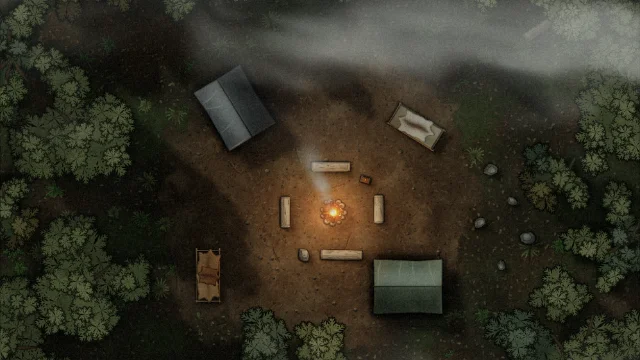
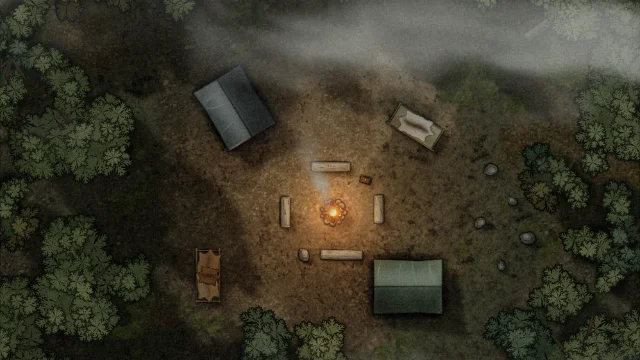
first terrain batch is painted from cc0 textures
ground, dirt, grass and the new moss read from tiled photos pulled to
the palette, with masked layers and flat micro-relief

diff --git a/src/procedural/materiais.ts b/src/procedural/materiais.ts
@@ -1,7 +1,8 @@
 import { contextoDe, criarTela, type Contexto } from './canvas.ts';
 import { campoDeRuido, fbm, hash2D, ladrilhoDeRuido, mulberry32, valueNoise2D } from './ruido.ts';
 import { celulasDeVoronoi, type Consulta } from './voronoi.ts';
-import type { ReceitaDeTextura } from './textura-de-terreno.ts';
+import { amostrarSemRepeticao, mapaDeGradiente, pesoDaCamada, reduzirTextura, tomDaTextura, type CamadaDeTextura, type Pixels, type ReceitaDeTextura, type Tom } from './textura-de-terreno.ts';
+import { texturaPronta } from './texturas-carregadas.ts';
 import { ehPadraoDeCobertura, texturaDeCobertura, type PadraoDeCobertura } from './coberturas.ts';
 
 export type Padrao = 'tabuas' | 'xadrez' | 'damasco' | 'listras' | 'veio' | 'trama' | 'couro' | 'metal' | 'vidro' | 'pregas' | 'pintura' | 'persa' | 'laje' | 'liso' | 'grama' | 'terra' | 'areia' | 'pedra' | 'neve' | 'lama' | 'espinha' | 'marmore' | 'losango' | 'hexagono' | 'floral' | 'lambri' | 'gelo' | 'dunas' | 'rachado' | 'cascalho' | 'paralelepipedo' | 'lajegrama' | 'sulcos' | 'molhada' | 'batido' | 'folhico'
@@ -129,11 +130,11 @@ export const MATERIAIS: Readonly<Record<string, Material>> = Object.fromEntries(
   m('parede.topo', 'Topo de parede', 'objeto', '#141218', '#08070a', '#2a2630', 'liso'),
   m('pedra.escura', 'Pedra escura', 'objeto', '#1b1d22', '#0c0d10', '#2b2f37', 'liso'),
   // Terreno
-  m('grama', 'Grama', 'terreno', '#3f6b34', '#234a1f', '#6a9a4a', 'grama'),
+  m('grama', 'Grama', 'terreno', '#3f6b34', '#234a1f', '#6a9a4a', 'grama', { textura: { tingir: 0.6, camadas: [{ textura: 'leafy_grass', escala: 1.4 }] } }),
   m('grama.acinzentada', 'Grama acinzentada', 'terreno', '#556353', '#323c31', '#7e8f7c', 'grama'),
-  m('grama.seca', 'Grama seca', 'terreno', '#7d7547', '#4e4827', '#a39b68', 'grama'),
+  m('grama.seca', 'Grama seca', 'terreno', '#7d7547', '#4e4827', '#a39b68', 'grama', { textura: { tingir: 0.6, camadas: [{ textura: 'withered_grass', escala: 1.4 }] } }),
   m('grama.escura', 'Grama escura', 'terreno', '#284825', '#142912', '#496d44', 'grama'),
-  m('terra', 'Terra', 'terreno', '#6a4d33', '#3b2a1a', '#8d6c49', 'terra'),
+  m('terra', 'Terra', 'terreno', '#6a4d33', '#3b2a1a', '#8d6c49', 'terra', { textura: { tingir: 0.6, camadas: [{ textura: 'brown_mud_dry', escala: 1.5 }] } }),
   m('areia', 'Areia', 'terreno', '#c8b27c', '#9a8650', '#e6d6a4', 'areia'),
   m('pedregulho', 'Pedregulho', 'terreno', '#6f6c66', '#3a3834', '#a09c94', 'pedra'),
   m('lama', 'Lama', 'terreno', '#4a3a28', '#2a1f14', '#6a5640', 'lama'),
@@ -163,8 +164,18 @@ export const MATERIAIS: Readonly<Record<string, Material>> = Object.fromEntries(
   m('areia.molhada', 'Areia molhada', 'terreno', '#9c855a', '#5a4a2c', '#d8c690', 'molhada'),
   m('neve.pisada', 'Neve pisada', 'terreno', '#d3dae2', '#8693a3', '#f4f7fa', 'pisada'),
   m('terra.congelada', 'Terra congelada', 'terreno', '#5e564c', '#2e2923', '#dfe4ea', 'terra'),
-  m('chao.batido', 'Chão batido', 'terreno', '#4c3e2f', '#2a2219', '#6a5a47', 'batido', { franja: 1 }),
-  m('chao.de.mata', 'Chão de mata', 'terreno', '#403a2b', '#1f1b14', '#5a5240', 'folhico', { franja: 1 }),
+  m('chao.batido', 'Chão batido', 'terreno', '#4c3e2f', '#2a2219', '#6a5a47', 'batido', { franja: 1, textura: { tingir: 0.6, camadas: [
+    { textura: 'dirt_floor', escala: 1.5, tons: ['#2e261c', '#5a4c3a', '#857258'] },
+    { textura: 'stony_dirt_path', escala: 1.3, mascara: { freq: 0.45, limiar: 0.52, suave: 0.08, semente: 1 }, tons: ['#2c2620', '#58503f', '#8a7f68'] },
+    { textura: 'withered_grass', escala: 1.4, mascara: { freq: 0.35, limiar: 0.56, suave: 0.1, semente: 2 }, tons: ['#28231a', '#4e4632', '#786a4e'] },
+  ] } }),
+  m('chao.de.mata', 'Chão de mata', 'terreno', '#403a2b', '#1f1b14', '#5a5240', 'folhico', { franja: 1, textura: { tingir: 0.6, camadas: [
+    { textura: 'forest_ground_04', escala: 1.5, tons: ['#201c15', '#463f30', '#6e654e'] },
+    { textura: 'withered_grass', escala: 1.4, mascara: { freq: 0.3, limiar: 0.5, suave: 0.1, semente: 5 }, tons: ['#1e1e14', '#403e2c', '#665f44'] },
+    { textura: 'leaves_forest_ground', escala: 1.6, mascara: { freq: 0.4, limiar: 0.55, suave: 0.08, semente: 3 }, tons: ['#241c14', '#4e3e2c', '#7a6446'] },
+    { textura: 'ground068', escala: 1.2, mascara: { freq: 1.1, limiar: 0.63, suave: 0.05, semente: 4 }, tons: ['#1c2212', '#3c4826', '#64703e'] },
+  ] } }),
+  m('musgo', 'Musgo', 'terreno', '#3c4826', '#1c2212', '#64703e', 'grama', { franja: 1, textura: { tingir: 0.6, camadas: [{ textura: 'ground068', escala: 1.2 }] } }),
   m('piso.hangar', 'Concreto industrial', 'terreno', '#7d7c78', '#3a3936', '#a6a49f', 'placas', { lado: 3, ouro: '#c9a12a' }),
 ].map(([id, mat]) => [id as string, mat as Material])) as Record<string, Material>;
 
@@ -223,6 +234,7 @@ function camadaDeRuido(ctx: Contexto, area: Area, seed: number, metros: number, 
  */
 export function pintarMaterial(ctx: Contexto, id: string, area: Area, seed = 1, { dir = 0 }: { dir?: number } = {}): void {
   const mat = materialDe(id), r = mulberry32(seed * 7919 + 13);
+  if (mat.textura && pintarComTextura(ctx, mat, area)) return;
   ctx.save();
   ctx.fillStyle = mat.base; ctx.fillRect(area.x, area.y, area.w, area.h);
   if (dir) { const cx = area.x + area.w / 2, cy = area.y + area.h / 2; ctx.translate(cx, cy); ctx.rotate(dir); ctx.translate(-cx, -cy); }
@@ -433,6 +445,94 @@ function porPixel(ctx: Contexto, A: Area, fn: (x: number, y: number, o: number[]
   }
   c.putImageData(img, 0, 0);
   ctx.save(); ctx.imageSmoothingEnabled = true; ctx.drawImage(tela as CanvasImageSource, A.x + i0 / s, A.y + j0 / s, W / s, H / s); ctx.restore();
+}
+
+// ---------- Terreno com textura (Frente P): foto CC0 em ladrilho, sem repetição visível, puxada para a paleta ----------
+interface TexturaReduzida { fonte: Pixels; cor: Pixels; alt?: Pixels; metros: number; tom: Tom; tomAlt?: Tom }
+const reduzidas = new Map<string, TexturaReduzida>();
+
+/** A textura `id` reduzida para ler a 1 a 2 texels por pixel de `res` px/m (com a `escala` da camada); `undefined` se não carregou. */
+function texturaParaPintar(id: string, escala: number, res: number): TexturaReduzida | undefined {
+  const t = texturaPronta(id); if (!t) return undefined;
+  const fator = Math.max(1, 2 ** Math.floor(Math.log2(t.cor.largura / (t.metros * escala) / res))), k = `${id}@${fator}`;
+  let r = reduzidas.get(k);
+  if (!r || r.fonte !== t.cor) {
+    const cor = reduzirTextura(t.cor, fator), alt = t.alt ? reduzirTextura(t.alt, fator) : undefined;
+    r = { fonte: t.cor, cor, alt, metros: t.metros, tom: tomDaTextura(cor), tomAlt: alt ? tomDaTextura(alt, true) : undefined };
+    reduzidas.set(k, r);
+  }
+  return r;
+}
+
+/** Afrouxa a normalização de tom (±2,6 desvios em vez de ±2 cobrem a paleta): a 32 px/m o grão da foto vira chiado se tiver contraste cheio. */
+const CONTRASTE_FINO = 1.3;
+interface CamadaPronta { c: CamadaDeTextura; t: TexturaReduzida; tom: Tom; ppm: number; E: Cor3; B: Cor3; C: Cor3; dx: number; dy: number }
+
+/** As camadas da receita prontas para pintar, ou `null` se alguma textura ainda não carregou (aí vale o `padrao`). */
+function camadasProntas(mat: Material, res: number): CamadaPronta[] | null {
+  const rec = mat.textura; if (!rec?.camadas.length) return null;
+  const out: CamadaPronta[] = [];
+  for (const [i, c] of rec.camadas.entries()) {
+    const escala = c.escala ?? 1, t = texturaParaPintar(c.textura, escala, res); if (!t) return null;
+    const [e, b, cl] = c.tons ?? [mat.escuro, mat.base, mat.claro];
+    // Deslocamento fixo por camada (não pela semente): o mesmo material casa na base e nas camadas pintadas por cima.
+    out.push({ c, t, tom: { media: t.tom.media, desvio: t.tom.desvio * CONTRASTE_FINO }, ppm: t.cor.largura / (t.metros * escala), E: rgbHex(e), B: rgbHex(b), C: rgbHex(cl), dx: 17.3 * (i + 1), dy: 5.9 * (i + 1) });
+  }
+  return out;
+}
+
+/** O material tem textura e ela já carregou (neste contexto: página ou worker)? */
+export const texturaDisponivel = (mat: Material, res = 32): boolean => camadasProntas(mat, res) !== null;
+
+const lum = (o: ArrayLike<number>): number => 0.2126 * o[0]! + 0.7152 * o[1]! + 0.0722 * o[2]!;
+const RUIDO_DE_TEXTURA = valueNoise2D(4243), RUIDO_DE_MASCARA = valueNoise2D(4271);
+const mascaraDeTextura = (x: number, y: number): number => fbm(RUIDO_DE_MASCARA, x, y, 4);
+
+/** Chama `f(camada, peso)` para as camadas que cobrem (x, y), da base para cima; a base tem peso 1. */
+function cadaCamada(cs: readonly CamadaPronta[], x: number, y: number, f: (L: CamadaPronta, w: number, i: number) => void): void {
+  for (let i = 0; i < cs.length; i++) { const L = cs[i]!, w = i === 0 ? 1 : pesoDaCamada(L.c, x, y, mascaraDeTextura); if (w > 0) f(L, w, i); }
+}
+
+/**
+ * Ilustrado: pinta `area` pela receita de textura (P3): cada camada é lida sem repetição, levada à sua paleta pela luminância
+ * normalizada e misturada pela máscara. Devolve `false` (e não pinta) se alguma textura não carregou.
+ */
+function pintarComTextura(ctx: Contexto, mat: Material, area: Area): boolean {
+  const cs = camadasProntas(mat, 1 / pxDe(ctx)); if (!cs) return false;
+  const tingir = mat.textura!.tingir, tmp = [0, 0, 0, 255], cru = [0, 0, 0];
+  porPixel(ctx, areaDeAmostragem(ctx, area), (x, y, o) => {
+    cadaCamada(cs, x, y, (L, w, i) => {
+      const alvo = i === 0 ? o : tmp;
+      amostrarSemRepeticao(L.t.cor, L.ppm, x + L.dx, y + L.dy, RUIDO_DE_TEXTURA, alvo);
+      cru[0] = alvo[0]!; cru[1] = alvo[1]!; cru[2] = alvo[2]!;
+      mapaDeGradiente(alvo, L.E, L.B, L.C, 1, L.tom);
+      // O que sobra do `tingir` traz o matiz da foto, mas com a luminância da paleta (a foto crua é bem mais clara que o chão do Atlas).
+      if (tingir < 1) { const k = (lum(alvo) + 1) / (lum(cru) + 1); cru[0] *= k; cru[1] *= k; cru[2] *= k; rumo(alvo, cru, 1 - tingir); }
+      if (i > 0) rumo(o, tmp, w);
+    });
+    o[3] = 255;
+  });
+  return true;
+}
+
+/**
+ * Altura do terreno com textura: plano, com os pontos altos do deslocamento da camada dominante (pedrisco, torrão, folha)
+ * erguidos um nível só. Nada de rampa: no mapa de 8 bits ela vira curva de nível, e a luminância vira escama.
+ */
+export function pintarAlturaComTextura(ctx: Contexto, mat: Material, area: Area): boolean {
+  const cs = camadasProntas(mat, 1 / pxDe(ctx)); if (!cs) return false;
+  const tmp = [0, 0, 0, 255], piso = Math.round(PISO * 255), alto = piso + 1;
+  porPixel(ctx, areaDeAmostragem(ctx, area), (x, y, o) => {
+    let dom: CamadaPronta = cs[0]!;
+    cadaCamada(cs, x, y, (L, w) => { if (w >= 0.5) dom = L; });
+    let h = piso;
+    if (dom.t.alt && dom.t.tomAlt) {
+      amostrarSemRepeticao(dom.t.alt, dom.ppm, x + dom.dx, y + dom.dy, RUIDO_DE_TEXTURA, tmp);
+      if ((tmp[0]! / 255 - dom.t.tomAlt.media) / Math.max(1e-3, dom.t.tomAlt.desvio) > 1.2) h = alto;
+    }
+    o[0] = h; o[1] = 0; o[2] = 0;
+  });
+  return true;
 }
 
 const novaConsulta = (): Consulta => ({ f1: 0, f2: 0, borda: 0, sitio: { x: 0, y: 0, i: 0, j: 0, azar: 0 } });

diff --git a/src/procedural/textura-de-terreno.ts b/src/procedural/textura-de-terreno.ts
@@ -5,7 +5,11 @@
 export interface Pixels { dados: Uint8ClampedArray; largura: number; altura: number }
 
 export interface MascaraDeCamada { freq: number; limiar: number; suave: number; semente: number }
-export interface CamadaDeTextura { textura: string; escala?: number; mascara?: MascaraDeCamada }
+/**
+ * Uma camada da receita. `escala` multiplica o tamanho real da textura (2 = ladrilho duas vezes maior). `tons` (escuro, base, claro)
+ * troca a paleta do material só nesta camada (o musgo verde dentro do folhiço pardo).
+ */
+export interface CamadaDeTextura { textura: string; escala?: number; mascara?: MascaraDeCamada; tons?: readonly [string, string, string] }
 export interface ReceitaDeTextura { camadas: CamadaDeTextura[]; tingir: number }
 
 /** Campo de ruído: `(x, y) => 0..1` (ex.: `valueNoise2D(seed)`). */
@@ -66,10 +70,47 @@ export function pesoDaCamada(c: CamadaDeTextura, x: number, y: number, ruido: Ru
 
 /**
  * `o` ← a cor escolhida pela luminância de `o` (0 a 1): preto = `escuro`, meio = `base`, branco = `claro`; `forca` (0 a 1)
- * mistura o resultado com a cor original. Mantém o alfa de `o`.
+ * mistura o resultado com a cor original. Mantém o alfa de `o`. `tom` normaliza a luminância da textura (`media` vai ao meio
+ * do gradiente e cada `desvio` anda 1/4 dele), para que uma foto escura ou clara use a paleta inteira.
  */
-export function mapaDeGradiente(o: number[], escuro: Cor3, base: Cor3, claro: Cor3, forca: number): void {
-  const L = Math.min(1, Math.max(0, (0.2126 * o[0]! + 0.7152 * o[1]! + 0.0722 * o[2]!) / 255));
+export function mapaDeGradiente(o: number[], escuro: Cor3, base: Cor3, claro: Cor3, forca: number, tom?: Tom): void {
+  const l = (0.2126 * o[0]! + 0.7152 * o[1]! + 0.0722 * o[2]!) / 255;
+  const L = Math.min(1, Math.max(0, tom ? 0.5 + (l - tom.media) * (0.25 / Math.max(1e-3, tom.desvio)) : l));
   const [a, b, t] = L < 0.5 ? [escuro, base, L * 2] as const : [base, claro, (L - 0.5) * 2] as const;
   for (let k = 0; k < 3; k++) o[k] = o[k]! + (a[k]! + (b[k]! - a[k]!) * t - o[k]!) * forca;
+}
+
+/** Média e desvio da luminância (0 a 1) de uma textura. */
+export interface Tom { media: number; desvio: number }
+
+/** Média e desvio da luminância de `t` (ou só do canal vermelho, para mapas de deslocamento em cinza). Pura. */
+export function tomDaTextura(t: Pixels, soVermelho = false): Tom {
+  const d = t.dados, n = t.largura * t.altura;
+  let s = 0, s2 = 0;
+  for (let i = 0; i < n; i++) {
+    const k = i * 4, l = (soVermelho ? d[k]! : 0.2126 * d[k]! + 0.7152 * d[k + 1]! + 0.0722 * d[k + 2]!) / 255;
+    s += l; s2 += l * l;
+  }
+  const media = n ? s / n : 0;
+  return { media, desvio: Math.sqrt(Math.max(0, (n ? s2 / n : 0) - media * media)) };
+}
+
+/**
+ * A textura reduzida `fator` vezes (média de `fator × fator` leituras por pixel, com volta nas bordas), para ler a ~1 texel por
+ * pixel do terreno sem serrilhar. O resultado continua em ladrilho. Pura.
+ */
+export function reduzirTextura(t: Pixels, fator: number): Pixels {
+  if (fator <= 1) return t;
+  const W = Math.max(1, Math.round(t.largura / fator)), H = Math.max(1, Math.round(t.altura / fator)), sx = t.largura / W, sy = t.altura / H;
+  const n = Math.max(1, Math.round(fator)), dados = new Uint8ClampedArray(W * H * 4), o = [0, 0, 0, 0];
+  for (let j = 0; j < H; j++) for (let i = 0; i < W; i++) {
+    let r = 0, g = 0, b = 0, a = 0;
+    for (let q = 0; q < n; q++) for (let p = 0; p < n; p++) {
+      amostrar(t, (i + (p + 0.5) / n) * sx, (j + (q + 0.5) / n) * sy, o);
+      r += o[0]!; g += o[1]!; b += o[2]!; a += o[3]!;
+    }
+    const k = (j * W + i) * 4, m = n * n;
+    dados[k] = r / m; dados[k + 1] = g / m; dados[k + 2] = b / m; dados[k + 3] = a / m;
+  }
+  return { dados, largura: W, altura: H };
 }

diff --git a/src/procedural/texturas-carregadas.ts b/src/procedural/texturas-carregadas.ts
@@ -7,7 +7,7 @@ import { validarCatalogo, type CatalogoDeTexturas } from './texturas.ts';
 import type { Pixels } from './textura-de-terreno.ts';
 
 const BASE_PADRAO = '/colecao/texturas/';
-const carregadas = new Map<string, Pixels>();
+const carregadas = new Map<string, Pixels>(), deslocamentos = new Map<string, Pixels>(), metros = new Map<string, number>();
 const pendentes = new Map<string, Promise<void>>();
 let catalogo: CatalogoDeTexturas | null = null, promessaDoCatalogo: Promise<CatalogoDeTexturas | null> | null = null, hash = '';
 
@@ -67,7 +67,9 @@ export async function garantirTexturas(ids: readonly string[], base = BASE_PADRA
       if (!t) { console.warn(`Atlas: textura desconhecida ${id}`); return undefined; }
       let p = pendentes.get(id);
       if (!p) {
-        p = carregarUma(`${base}${t.arquivo}`).then(px => { carregadas.set(id, px); })
+        // O deslocamento é opcional: sem ele o relevo da textura fica plano.
+        const alt = t.deslocamento ? carregarUma(`${base}${t.deslocamento}`).catch(() => undefined) : Promise.resolve(undefined);
+        p = Promise.all([carregarUma(`${base}${t.arquivo}`), alt]).then(([px, d]) => { metros.set(id, t.metros); if (d) deslocamentos.set(id, d); carregadas.set(id, px); })
           .catch(erro => { console.warn(`Atlas: não consegui carregar a textura ${id}`, erro); })
           .finally(() => { pendentes.delete(id); });
         pendentes.set(id, p);
@@ -80,7 +82,13 @@ export async function garantirTexturas(ids: readonly string[], base = BASE_PADRA
 /** Os pixels de uma textura já carregada, ou `undefined`. Síncrona. */
 export const texturaCarregada = (id: string): Pixels | undefined => carregadas.get(id);
 
+/** A textura pronta para o pintor: a cor, o deslocamento (se houver) e o tamanho real do ladrilho (m). Síncrona. */
+export function texturaPronta(id: string): { cor: Pixels; alt?: Pixels; metros: number } | undefined {
+  const cor = carregadas.get(id), m = metros.get(id);
+  return cor && m ? { cor, alt: deslocamentos.get(id), metros: m } : undefined;
+}
+
 /** Só para testes: esquece tudo. */
-export function _reiniciarTexturas(): void { carregadas.clear(); pendentes.clear(); catalogo = null; promessaDoCatalogo = null; hash = ''; }
+export function _reiniciarTexturas(): void { carregadas.clear(); deslocamentos.clear(); metros.clear(); pendentes.clear(); catalogo = null; promessaDoCatalogo = null; hash = ''; }
 /** Só para testes: define o hash sem rede. */
 export function _definirHashDasTexturas(h: string): void { hash = h; }

diff --git a/tests/unit/texturas-carregadas.test.ts b/tests/unit/texturas-carregadas.test.ts
@@ -5,22 +5,22 @@ import type { EntradaDeTerreno } from '../../src/procedural/assar.ts';
 import { _definirHashDasTexturas, _reiniciarTexturas, garantirTexturas, hashDasTexturas, texturaCarregada, texturasDoTerreno } from '../../src/procedural/texturas-carregadas.ts';
 import { chaveDoTerreno } from '../../src/render/entradas.ts';
 
-// Material fictício: nenhum material real tem `textura` ainda.
+// Materiais fictícios com texturas conhecidas; `lama` (lote 2) ainda não tem textura.
 const mats = MATERIAIS as Record<string, Material>;
-const fic = (id: string, texturas: string[]): void => { mats[id] = { ...mats['terra']!, id, textura: { camadas: texturas.map(textura => ({ textura })), tingir: 0.5 } }; };
+const fic = (id: string, texturas: string[]): void => { mats[id] = { ...mats['lama']!, id, textura: { camadas: texturas.map(textura => ({ textura })), tingir: 0.5 } }; };
 fic('teste.a', ['lama', 'cascalho']); fic('teste.b', ['cascalho', 'folhas']);
 after(() => { delete mats['teste.a']; delete mats['teste.b']; _reiniciarTexturas(); });
 
 const entrada = (base: string, ...camadas: string[]): EntradaDeTerreno => ({ largura: 4, altura: 4, resolucao: 0.5, base, camadas: camadas.map(material => ({ material, celulas: [[0, 0, 4]] as [number, number, number][] })) });
 
 test('texturasDoTerreno lista as texturas da base e das camadas sem repetir', () => {
-  assert.deepEqual(texturasDoTerreno(entrada('teste.a', 'teste.b', 'teste.a', 'terra')), ['lama', 'cascalho', 'folhas']);
-  assert.deepEqual(texturasDoTerreno(entrada('terra', 'grama#123456')), []);
+  assert.deepEqual(texturasDoTerreno(entrada('teste.a', 'teste.b', 'teste.a', 'lama')), ['lama', 'cascalho', 'folhas']);
+  assert.deepEqual(texturasDoTerreno(entrada('lama', 'grama#123456')), []);
 });
 
 test('chaveDoTerreno muda com o hash do catálogo só quando há textura', () => {
   _reiniciarTexturas();
-  const com = entrada('vazio', 'teste.a'), sem = entrada('vazio', 'terra');
+  const com = entrada('vazio', 'teste.a'), sem = entrada('vazio', 'lama');
   _definirHashDasTexturas('h1'); const c1 = chaveDoTerreno(com, 24), s1 = chaveDoTerreno(sem, 24);
   _definirHashDasTexturas('h2'); const c2 = chaveDoTerreno(com, 24), s2 = chaveDoTerreno(sem, 24);
   assert.ok(c1.endsWith('|txh1') && c2.endsWith('|txh2'));

diff --git a/src/procedural/altura.ts b/src/procedural/altura.ts
@@ -1,6 +1,6 @@
 import { contextoDe, criarTela, type Contexto } from './canvas.ts';
 import type { Parte } from './descricao.ts';
-import { ALTURAS_DE_PADRAO, materialDe, pintarMaterial, pxDe, type Area, type Material, type Padrao } from './materiais.ts';
+import { ALTURAS_DE_PADRAO, materialDe, pintarAlturaComTextura, pintarMaterial, pxDe, texturaDisponivel, type Area, type Material, type Padrao } from './materiais.ts';
 import { caixaDe, caminho, ordenarPartes } from './raster.ts';
 
 /** Metros por unidade do mapa de altura: `0,5 + z / ALTURA_MAXIMA` cobre de −2 m a +2 m em volta do piso. */
@@ -17,6 +17,9 @@ export type PintorDeAltura = (ctx: Contexto, mat: Material, area: Area, seed: nu
 
 /** Registro de pintores de altura dedicados por padrão de material (a mesma geometria do desenho; ver `ALTURAS_DE_PADRAO`). */
 export const PINTORES_DE_ALTURA: Partial<Record<Padrao, PintorDeAltura>> = ALTURAS_DE_PADRAO;
+
+/** O material tem altura própria (pintor do padrão, ou textura carregada) e dispensa a reserva por luminância? */
+export const temAlturaPropria = (mat: Material, res?: number): boolean => !!PINTORES_DE_ALTURA[mat.padrao] || (!!mat.textura && texturaDisponivel(mat, res));
 
 const limitar = (v: number): number => (v < 0 ? 0 : v > 1 ? 1 : v);
 const limitarInt = (v: number, a: number, b: number): number => (v < a ? a : v > b ? b : v);
@@ -89,6 +92,7 @@ export function alturaPorLuminancia(rgba: Uint8ClampedArray, largura: number, al
 export function pintarAlturaDoMaterial(ctx: Contexto, id: string, area: Area, seed = 1, o: { dir?: number; res?: number } = {}): void {
   const mat = materialDe(id);
   const res = o.res ?? (typeof ctx.getTransform === 'function' ? 1 / pxDe(ctx) : 1);
+  if (mat.textura && pintarAlturaComTextura(ctx, mat, area)) return;
   const pintor = PINTORES_DE_ALTURA[mat.padrao];
   if (pintor) {
     ctx.save();

diff --git a/src/procedural/assar.ts b/src/procedural/assar.ts
@@ -1,4 +1,4 @@
-import { ALTURA_MAXIMA, PINTORES_DE_ALTURA, PISO_NO_MAPA, RAIO_PASSA_ALTA, alturaPorLuminancia, desenharAlturaDasPartes, pintarAlturaDoMaterial } from './altura.ts';
+import { ALTURA_MAXIMA, temAlturaPropria, PISO_NO_MAPA, RAIO_PASSA_ALTA, alturaPorLuminancia, desenharAlturaDasPartes, pintarAlturaDoMaterial } from './altura.ts';
 import { contornoDoComodo, caixaDasCelulas } from '../domain/geometria.ts';
 import {
   AMPLIACAO_NA_FACE,
@@ -446,7 +446,7 @@ export function assarTerreno(e: EntradaDeTerreno, res: number, estilo: EstiloDeR
   if (actx) {
     resetTransform(actx);
     if (e.base !== 'vazio') {
-      if (PINTORES_DE_ALTURA[materialDe(e.base).padrao]) {
+      if (temAlturaPropria(materialDe(e.base), res)) {
         pintarAlturaDoMaterial(actx, e.base, areaBase, 7, { res });
       } else {
         const rPx = e.recorte ? Math.max(1, Math.round(RAIO_PASSA_ALTA * res)) : 0;
@@ -573,7 +573,7 @@ export function assarTerreno(e: EntradaDeTerreno, res: number, estilo: EstiloDeR
     const mascCorpo = comAlfa(corpo, null);
     if (actx) {
       const altTela = criarTela(cw, ch), atc = contextoDe(altTela);
-      if (PINTORES_DE_ALTURA[material.padrao]) {
+      if (temAlturaPropria(material, res)) {
         atc.setTransform(res, 0, 0, res, -x0, -y0);
         pintarAlturaDoMaterial(atc, camada.material, areaMaterial, 11 + idx * 5, { res, dir });
         atc.setTransform(1, 0, 0, 1, 0, 0);

diff --git a/src/procedural/grupos-de-terreno.ts b/src/procedural/grupos-de-terreno.ts
@@ -3,7 +3,7 @@ export interface GrupoDeTerreno { id: string; nome: string; materiais: readonly 
 
 export const GRUPOS_DE_TERRENO: readonly GrupoDeTerreno[] = [
   { id: 'grama', nome: 'Grama', materiais: ['grama', 'grama.acinzentada', 'grama.seca', 'grama.escura'] },
-  { id: 'terra', nome: 'Terra e lama', materiais: ['terra', 'terra.sulcos', 'terra.congelada', 'chao.batido', 'chao.de.mata', 'lama'] },
+  { id: 'terra', nome: 'Terra e lama', materiais: ['terra', 'terra.sulcos', 'terra.congelada', 'chao.batido', 'chao.de.mata', 'musgo', 'lama'] },
   { id: 'areia', nome: 'Areia', materiais: ['areia', 'areia.molhada'] },
   { id: 'pedra', nome: 'Pedra e cascalho', materiais: ['pedregulho', 'cascalho', 'rocha.rachada'] },
   { id: 'calcamento', nome: 'Calçamento', materiais: ['calcada', 'paralelepipedo', 'lajes.gramadas', 'lajes.escuras', 'lajes.antigas', 'piso.hangar'] },

diff --git a/docs/plano/terreno-com-textura.md b/docs/plano/terreno-com-textura.md
@@ -106,7 +106,7 @@ Testes: `texturasDoTerreno` lista sem repetir; `chaveDoTerreno` muda com o hash 
 Pronto quando: typecheck e testes passam; no navegador, um terreno com um material de teste com `textura` carrega o WebP no worker (dá para ver na aba de rede).
 Commit: `terrain bakes preload the textures they use`
 
-### P5 — Pintar o terreno com textura, lote 1 (Opus)  ⬜
+### P5 — Pintar o terreno com textura, lote 1 (Opus)  ✅
 Objetivo: os materiais do lote 1 são pintados pela textura, e o acampamento chega perto da referência no chão.
 Depende de: P3, P4.
 Ler: `src/procedural/materiais.ts` (`pintarMaterial`, `porPixel`, `PINTORES_DE_ALTURA`); `src/procedural/assar.ts:427-600`; `src/procedural/estilos/ilustrado.ts`.
@@ -120,6 +120,11 @@ Não fazer: carimbos (P7) nem lote 2.
 Testes: os existentes; o visual vem do gerador de exemplos.
 Pronto quando: `npm run exemplos -- --so acampamento-na-nevoa` dá um chão com densidade e variação comparáveis às da referência (prancha `test-results/fase10-acampamento-na-nevoa.png`), sem repetição visível em 24 m e sem escamas sob a luz.
 Commit: `first terrain batch is painted from cc0 textures`
+Feito em 2026-11-20:
+- **Mistura:** cada camada vai à paleta pela luminância normalizada (média e desvio da textura, ±2,6 desvios cobrem a paleta). O resto do `tingir` traz o matiz da foto com a luminância da paleta: a foto crua é bem mais clara que o chão do Atlas, e misturada direto lavava as manchas. A textura é reduzida (média de caixa) até 1 a 2 texels por pixel antes de ler, para não serrilhar.
+- **Camadas:** `tons` por camada (o musgo verde e o capim seco dentro do folhiço pardo). `chao.de.mata` = `forest_ground_04` + manchas de `withered_grass`, `leaves_forest_ground` e `ground068`; `chao.batido` = `dirt_floor` + `stony_dirt_path` + `withered_grass`. As texturas vão ampliadas de 1,2 a 1,6× para que folha e torrão passem de 3 px.
+- **Altura:** plano, com os picos do deslocamento (acima de 1,2 desvio) erguidos um nível só. Sem escamas sob o luar nem sob a fogueira.
+- **Medição a 32 px/m:** o grão, a mancha e a variação de tom se mantêm, mas lâmina de capim e folha isolada não (viram grão). Na referência, esses elementos que se leem um a um são carimbos desenhados, não textura. Então quem fecha essa distância é a P7, e não vale subir `resolucao('terreno')` agora.
 
 ### P6 — Amostra do material com textura na interface (Sonnet)  ⬜
 Objetivo: as amostras de material mostram a textura de verdade, e não o degradê de três cores.
